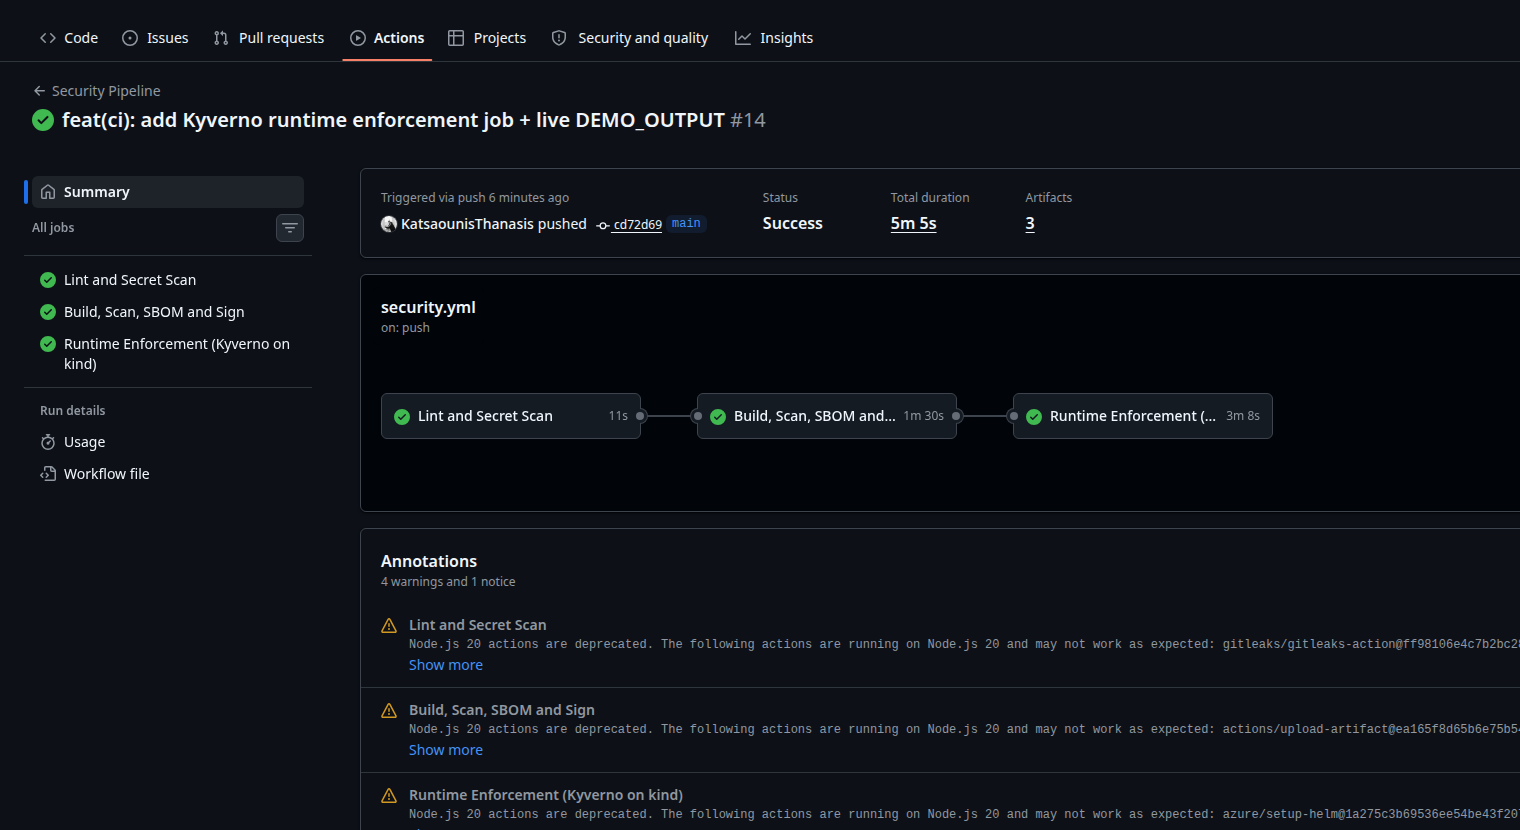
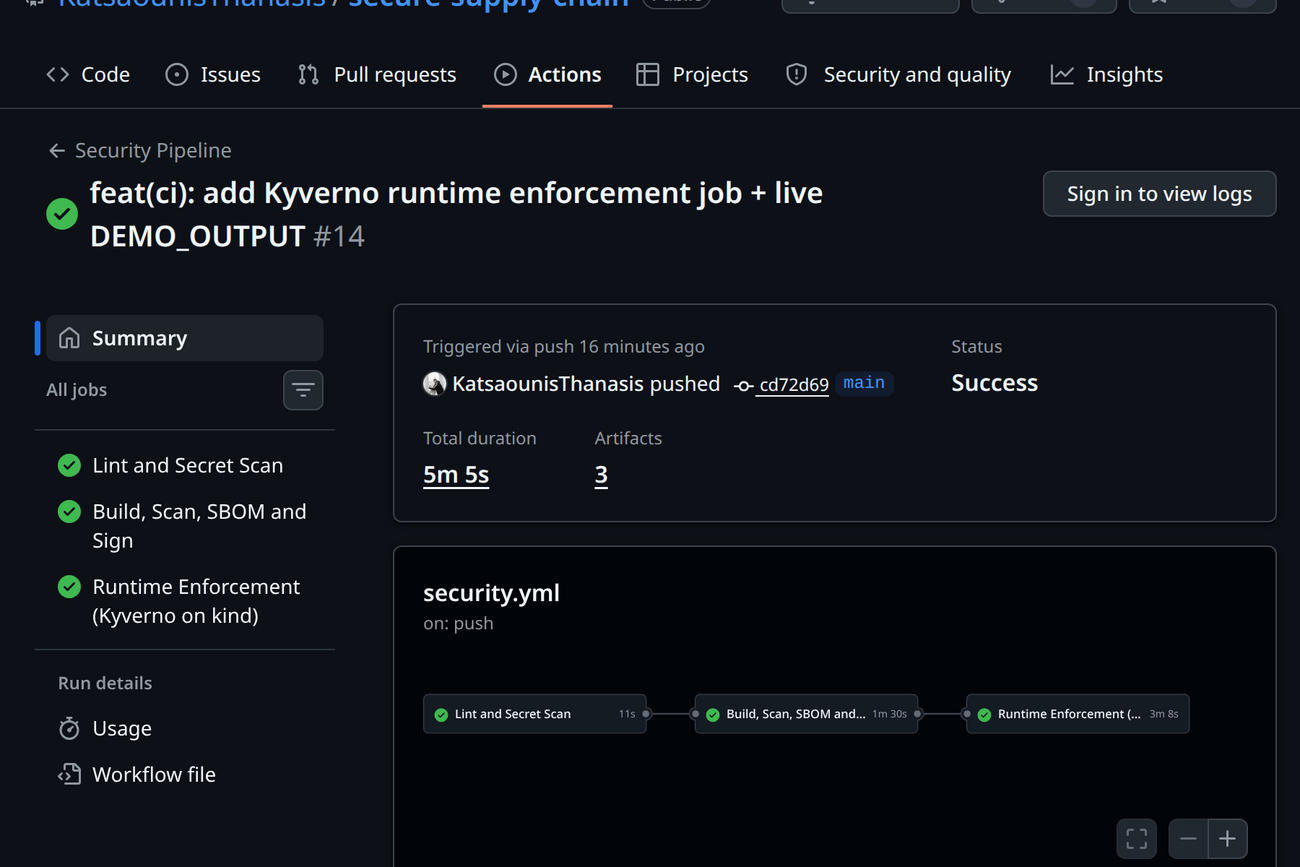
docs: re-render screenshots at 2x DPI + tight viewport for readable text
- Use --force-device-scale-factor=2 with narrow viewport (900-1100px)
  so Chrome renders at HiDPI in compact GitHub layout. Text density
  is high; nothing is shrunken to fit empty whitespace.
- README now uses <img width=900> instead of plain markdown so
  screenshots render at near-full column width on GitHub.

diff --git a/README.md b/README.md
@@ -133,19 +133,25 @@ Every claim in this README is **verifiable on the live repository** — nothing 
 
 ### Pipeline run (lint → build/scan/sign → runtime enforcement) all green
 
-[![Full pipeline run](docs/screenshots/02-pipeline-run.png)](https://github.com/KatsaounisThanasis/secure-supply-chain/actions/runs/25562234413)
+<a href="https://github.com/KatsaounisThanasis/secure-supply-chain/actions/runs/25562234413">
+  <img src="docs/screenshots/02-pipeline-run.png" alt="Full pipeline run with three green jobs" width="900">
+</a>
 
 > Three jobs in series. The third — **Runtime Enforcement (Kyverno on kind)** — spins up a real Kubernetes cluster inside the runner, installs Kyverno, deploys a signed pod (admitted), then deploys an unsigned pod (rejected). All asserted automatically.
 
 ### Runtime enforcement job: signed admit + unsigned reject, both proven in CI
 
-[![Runtime enforcement job detail](docs/screenshots/05-runtime-enforcement-job.png)](https://github.com/KatsaounisThanasis/secure-supply-chain/actions/runs/25562234413/job/75036844700)
+<a href="https://github.com/KatsaounisThanasis/secure-supply-chain/actions/runs/25562234413/job/75036844700">
+  <img src="docs/screenshots/05-runtime-enforcement-job.png" alt="Runtime enforcement job — every step green, including signed-admit and unsigned-reject assertions" width="900">
+</a>
 
 > The two key steps are `Deploy SIGNED pod (expect ADMITTED)` and `Deploy UNSIGNED pod (expect REJECTED)` — they fail the build if either expectation isn't met.
 
 ### Signed image on GitHub Container Registry
 
-[![GHCR package](docs/screenshots/03-ghcr-package.png)](https://github.com/KatsaounisThanasis/secure-supply-chain/pkgs/container/secure-app)
+<a href="https://github.com/KatsaounisThanasis/secure-supply-chain/pkgs/container/secure-app">
+  <img src="docs/screenshots/03-ghcr-package.png" alt="GHCR package showing signed image versions and SBOM attestations" width="900">
+</a>
 
 > Each commit produces a tagged image plus `<digest>.sig` and `<digest>.att` artifacts (the Cosign signature and CycloneDX SBOM attestation).
 
